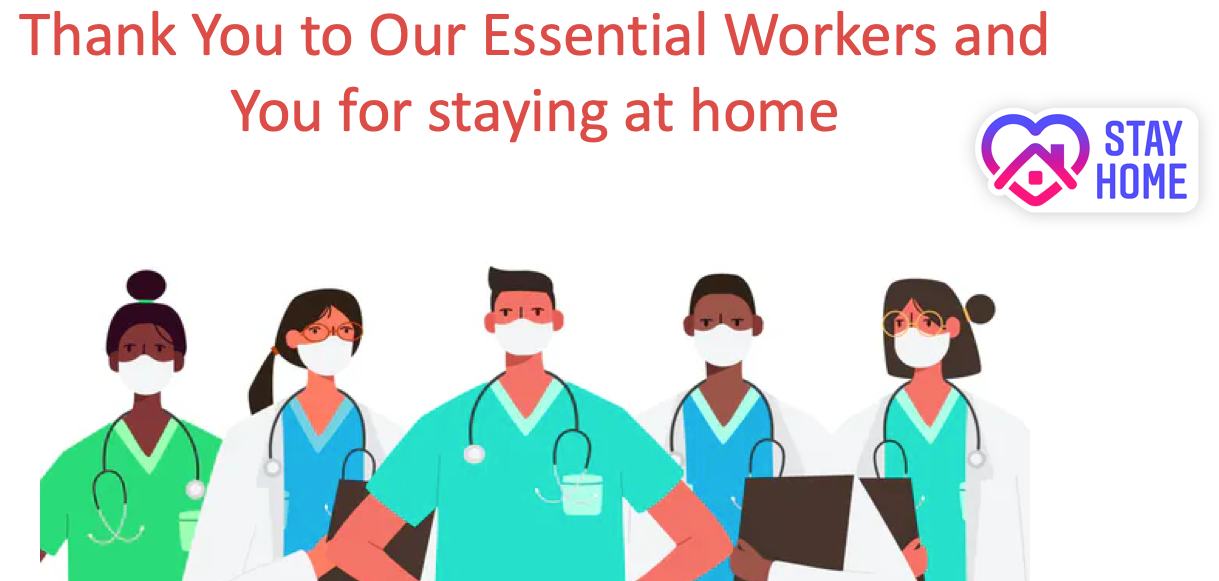
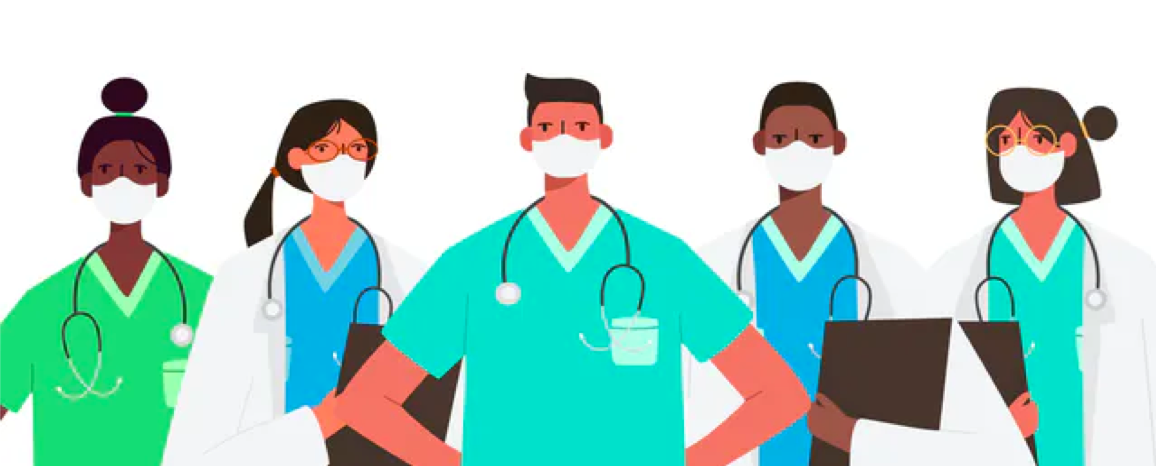
almost done thank you page
Need to rearrage components, to make header fixed

diff --git a/src/pages/thankyou/ThankPage.js b/src/pages/thankyou/ThankPage.js
@@ -1,0 +1,50 @@
+import React from 'react';
+import './thankyou.css';
+import thankpng from '../../components/ThankPic.png';
+import socialDis from '../../assets/social-dist.jpg';
+import reopen from '../../assets/reopen.jpg';
+import symptom from '../../assets/symptom.png';
+
+class ThankPage extends React.Component {
+    render() {
+        return (
+            <div>
+                <div align="center">
+                    <h1 className='thank-title'>Thank you to our ESSENTIAL WORKERS and YOU for staying at home!</h1>
+                    <img alt='thankyoupic' src={thankpng} className='thank-pic' style={{ width: '50%' }}></img>
+                </div>
+        <div className="page-intro">
+            <div className="intro-left">
+                <img src= {socialDis} />
+                <div className = 'intro-text'>
+                <p className="title">What we can do?</p>
+                <p>- Stay home if you can</p>
+                <p>- Keeping social distancing</p>
+                <p>- Wash your hands</p>
+                </div>
+            </div>
+            <div className="intro-middle">
+                <img src= {symptom} />
+                <p className="title"> Worried about it?</p>
+                <div className = 'intro-text'>
+                <p>- Check current situation(should link to home)</p>
+                <p>- Check your symtoms</p>
+                <p>- Check have you been exposed</p>
+                </div>
+            </div>
+            <div className="intro-right">
+                <img src= {reopen} />
+                <p className="title">What's next</p>
+                <div className = 'intro-text'>
+                <p>- Thanks again to essential workers!</p>
+                <p>- Support local retailers,businesses</p>
+                <p>- Check reopening date here!</p>
+                </div>
+            </div>
+         </div>
+            </div>
+        );
+    }
+};
+
+export default ThankPage;

diff --git a/src/pages/thankyou/thankyou.css b/src/pages/thankyou/thankyou.css
@@ -1,0 +1,31 @@
+.thank-title {
+    width: 60%;
+    padding: 1em;
+}
+
+.page-intro {
+    margin-top: 50px;
+    margin-bottom: 50px;
+    text-align: center;
+    display: grid;
+    grid-gap: 3px;
+    grid-template-columns: repeat(3, 2fr);
+  }
+  
+  .intro-left img , .intro-middle img,.intro-right img {
+    width: 80%;
+    display: block;
+    margin: 0 auto;
+  }
+  
+  .intro-text {
+    width: 80%;
+    margin: 10px auto 20px auto;
+    text-align: left;
+  }
+  
+  
+  
+  .title {
+    font-size: 2rem;
+  }

diff --git a/src/components/header/PagesBar.js b/src/components/header/PagesBar.js
@@ -13,7 +13,7 @@ import Home from '../../pages/home/home';
 import SymptomChecker from '../../pages/symptom-checker/symptom-checker';
 import HaveI from '../../pages/have-i-been-exposed/have-been-exposed';
 import FinancialHelp from '../../pages/financial-help/financial-help';
-import ThankPage from '../../pages/ThankPage';
+import ThankPage from '../../pages/thankyou/ThankPage';
 
 
 const pages = [

diff --git a/src/App.js b/src/App.js
@@ -3,7 +3,7 @@ import './App.css';
 // import Home from "./pages/home/home";
 import Header from "./components/header/header";
 import PagesBar from "./components/header/PagesBar"
-import ThankPage from './pages/ThankPage';
+import ThankPage from './pages/thankyou/ThankPage';
 
 function App() {
     return (
